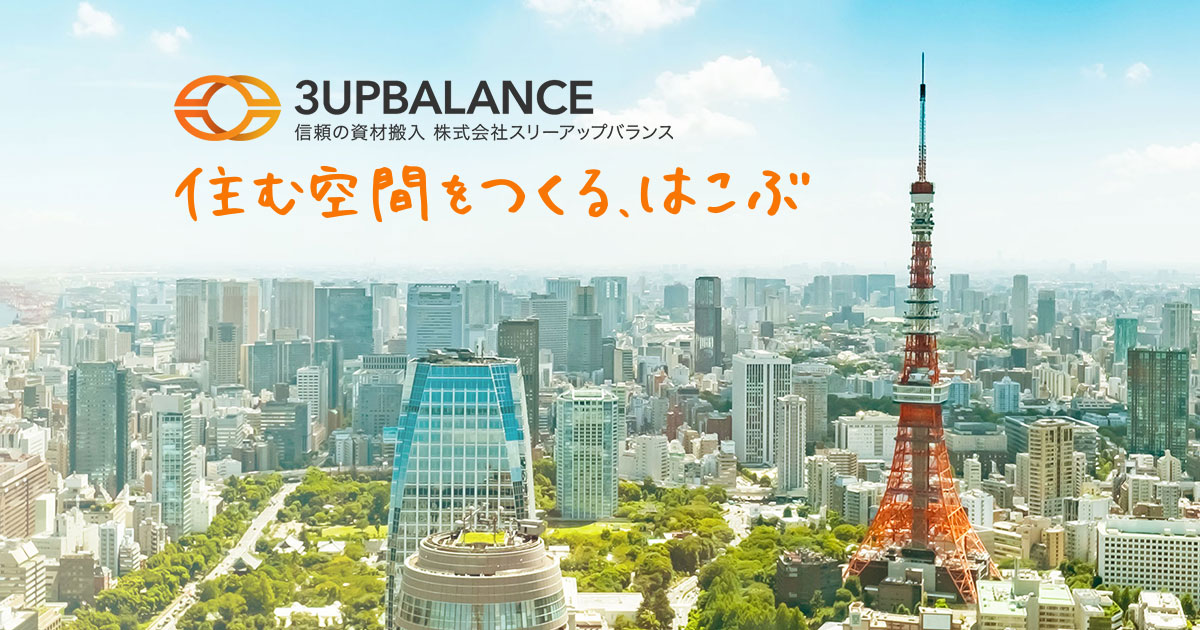
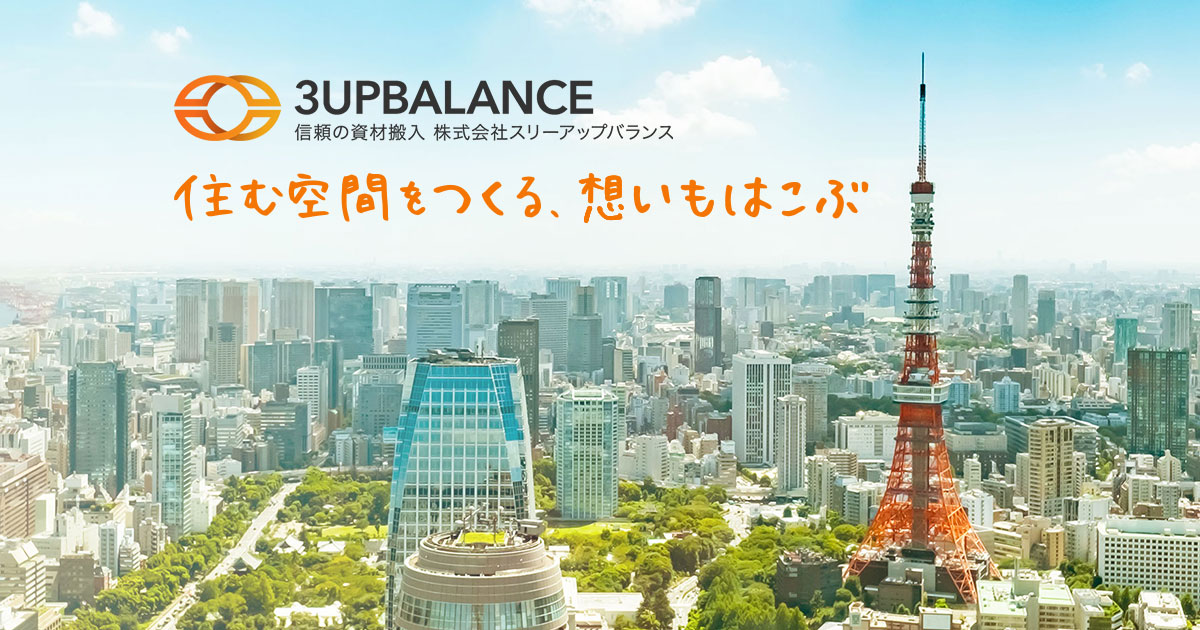
狩野さん修正

Changed region(s): [[0.1542, 0.2413, 0.74, 0.3619]]

diff --git a/index.html b/index.html
@@ -61,8 +61,12 @@
       </picture>
       <div class="Mv__container">
         <div class="Mv__text">
-          <h2 class="Mv__catchCopy"><img src="./assets/img/text_catchcopy.svg" alt="住む空間をつくる、はこぶ" width="3644"
-              height="329"></h2>
+          <h2 class="Mv__catchCopy">
+            <picture>
+              <source srcset="./assets/img/text_catchcopy_pc.svg" media="(min-width: 768px)" />
+              <img src="./assets/img/text_catchcopy_sp.svg" alt="住む空間をつくる、想いもはこぶ" width="2603" height="812">
+            </picture>
+          </h2>
           <!-- <p class="Mv__detailText">
             <span>関東エリアの資材搬入は、</span><br>
             <span>荷揚げ屋「スリーアップバランス」に</span>
@@ -83,15 +87,15 @@
       <div class="c-SectionTitle js-view fadein">
         <div class="c-SectionTitle__en">News</div>
         <h2 class="c-SectionTitle__ja">ニュース</h2>
-          <div class="l-Container">
-      <dl class="newsList">
-                <div class="newsList__item">
-                  <dt class="newsList__term">2023.12.03</dt>
-                  <dd class="newsList__description"><a href="./news20231203.html">社内研修を実施しました!</a></dd>
-                </div>
-              </dl>
-            </div> <!-- //l-Container -->
-          </div> <!-- //l-Container -->
+        <div class="l-Container">
+          <dl class="newsList">
+            <div class="newsList__item">
+              <dt class="newsList__term">2023.12.03</dt>
+              <dd class="newsList__description"><a href="./news20231203.html">社内研修を実施しました!</a></dd>
+            </div>
+          </dl>
+        </div> <!-- //l-Container -->
+      </div> <!-- //l-Container -->
     </section>
     <section class="l-Section -top AboutSection ">
       <div class="l-Container AboutSection__content">

diff --git a/assets/css/style.css b/assets/css/style.css
@@ -1477,6 +1477,9 @@ body {
   padding-top: 15px;
   padding-bottom: 15px;
 }
+.newsList__description a {
+  color: #333333;
+}
 .newsList__term {
   width: 30%;
   max-width: 180px;
